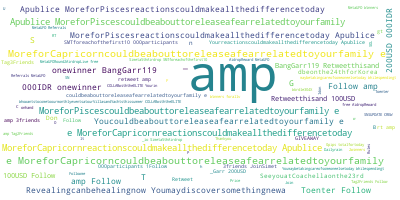
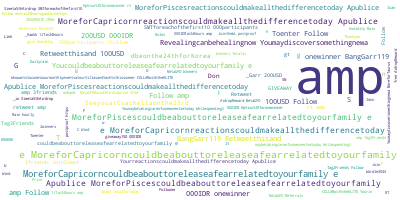
*8

diff --git a/routes.py b/routes.py
@@ -17,9 +17,9 @@ def index():
     def calculatee(hashtag,noft,lang,type,i):
         text = ''
         hashtag = hashtag+type
-        for q in hashtag:
-            for tweets in api.search_tweets(q=q,lang=lang,count=noft):
-                text = text + tweets.text
+        # for q in hashtag:
+        #     for tweets in api.search_tweets(q=q,lang=lang,count=noft):
+        #         text = text + tweets.text
         print("tweet part done")
 
         loc = 'static/textfiles/'+type+'.txt'
@@ -42,6 +42,22 @@ def index():
                            u"\U000024C2-\U0001F251"
                            "]+", flags=re.UNICODE)
         text = emoji_pattern.sub(r'', string=text)
+
+
+        punctuations = '''!()-[]{};:'"\,<>./?@#$%^&*_~'''
+
+        words = text.split(" ")
+        tnw = 0
+        wordscopy = words
+
+        wordscopy2 = ""
+        for char in wordscopy:
+            if char not in punctuations:
+                wordscopy2 = wordscopy2 + char
+        text = wordscopy2
+
+
+
         print("Cleaning done")
 
         pl = TextBlob(text).sentiment.polarity
@@ -63,19 +79,8 @@ def index():
         tns = 0
         for y in sentences:
             tns = tns + 1  # Total Number of Sentences
-
-        words = text.split(" ")
-        tnw = 0
-        wordscopy = words
-
-        punctuations = '''!()-[]{};:'"\,<>./?@#$%^&*_~'''
-
-        wordscopy2 = ""
-        for char in wordscopy:
-            if char not in punctuations:
-                wordscopy2 = wordscopy2 + char
-
-        for x in wordscopy:
+        
+        for x in words:
             tnw = tnw + 1  # Total number of words
 
         ccw = 0
@@ -96,9 +101,8 @@ def index():
         anws = tnw / tns
 
         sc = 0
-        for w in wordscopy2:
-            if (
-                    w == 'a' or w == 'e' or w == 'i' or w == 'o' or w == 'u' or w == 'A' or w == 'E' or w == 'I' or w == 'O' or w == 'U'):
+        for w in text:
+            if (w == 'a' or w == 'e' or w == 'i' or w == 'o' or w == 'u' or w == 'A' or w == 'E' or w == 'I' or w == 'O' or w == 'U'):
                 sc = sc + 1
 
         scw = sc / tnw
@@ -147,8 +151,6 @@ def index():
         awlcell.value = awl
         my_wb_obj.save(loc)
         print("All values done")
-
-        
         loc = 'static/textfiles/'+type+'.txt'
         fp = open(f'{loc}','w+')  
         fp.write(wordscopy2)
@@ -192,8 +194,6 @@ def index():
         loc =  'static/Output Data Structure.xlsx'
         my_wb_obj = load_workbook(filename=loc)
         my_sheet_obj = my_wb_obj.active
-        # return render_template('index.html',form=form,hashtag=form.hashtag.data,text=text,Sub=su,Pol=pl,status=status,tns=tns,tnw=tnw,ccw=ccw,pcw=pcw,fi=fi,anws=anws,sc=sc,scw=scw,pronouns=len(pronouns),asl=asl,awl=awl)
-        # return render_template('index.html',form=form,hashtag=form.hashtag.data,text=text,Sub=su,Pol=pl,loc=full_filename)
         return render_template('index.html',form=form,hashtag=hashtag,noft=noft,lang=lang,sheet=my_sheet_obj)
     return render_template('index.html',form=form,hashtag=form.hashtag.data)
 
